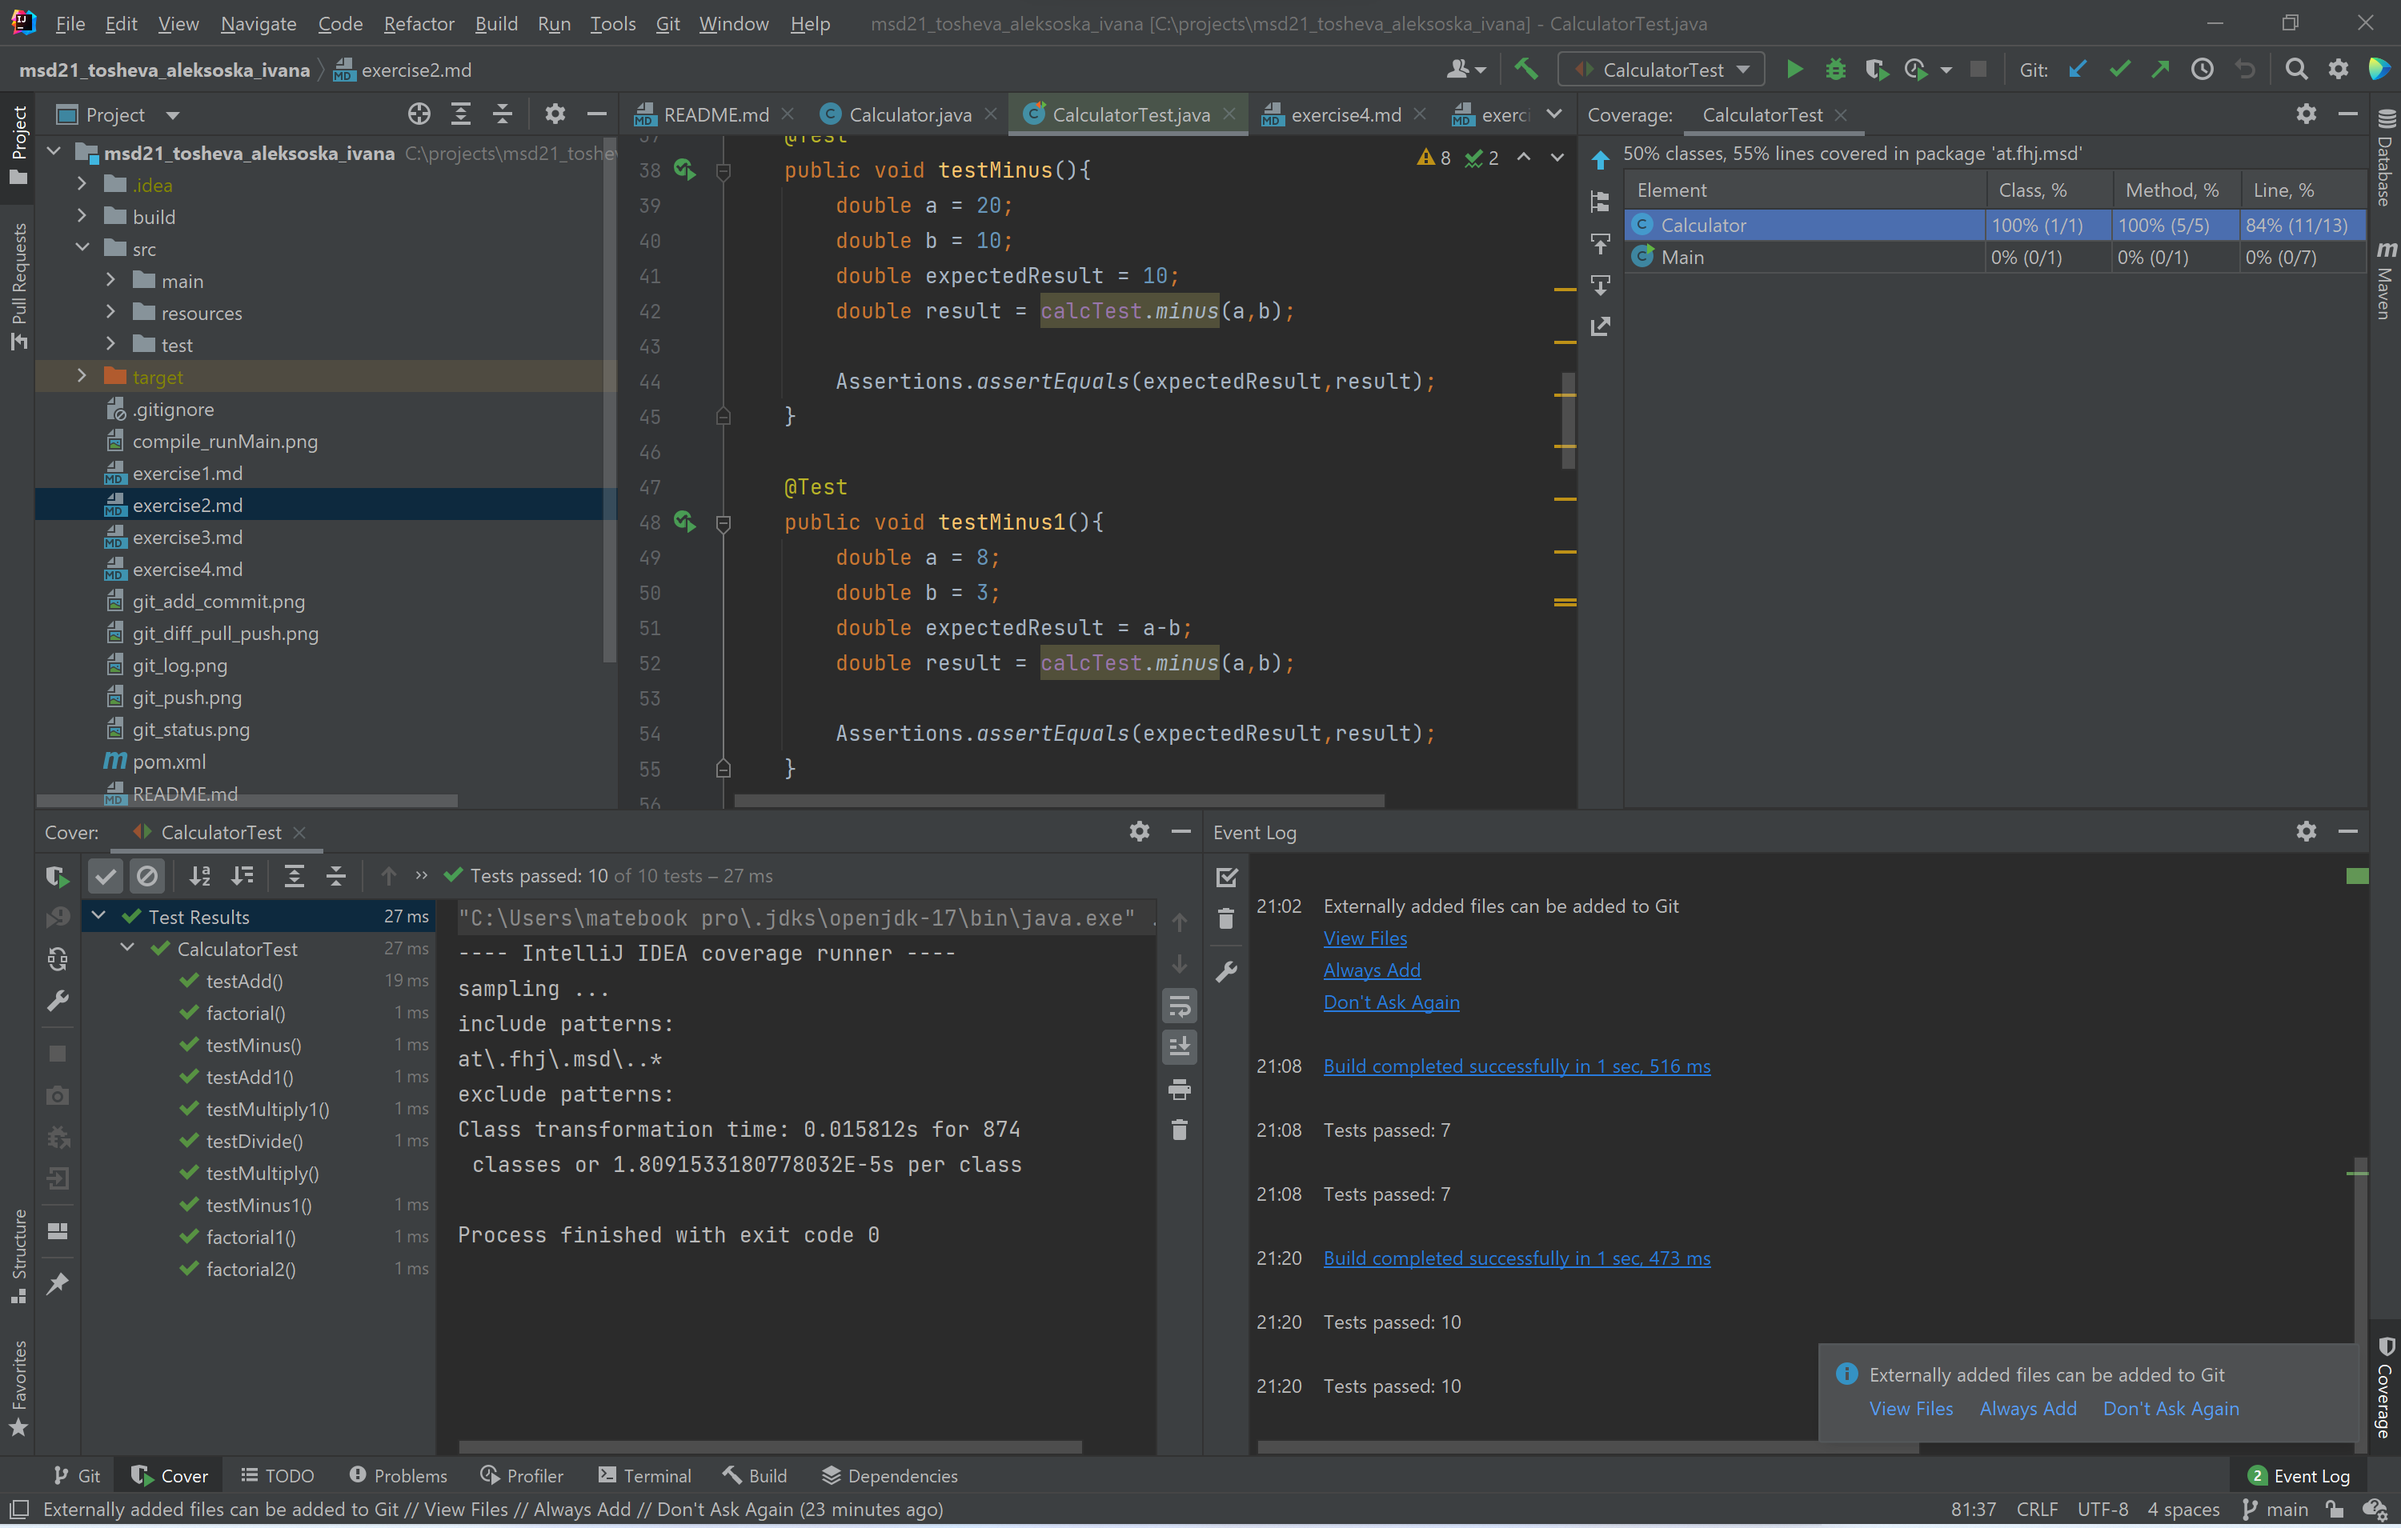
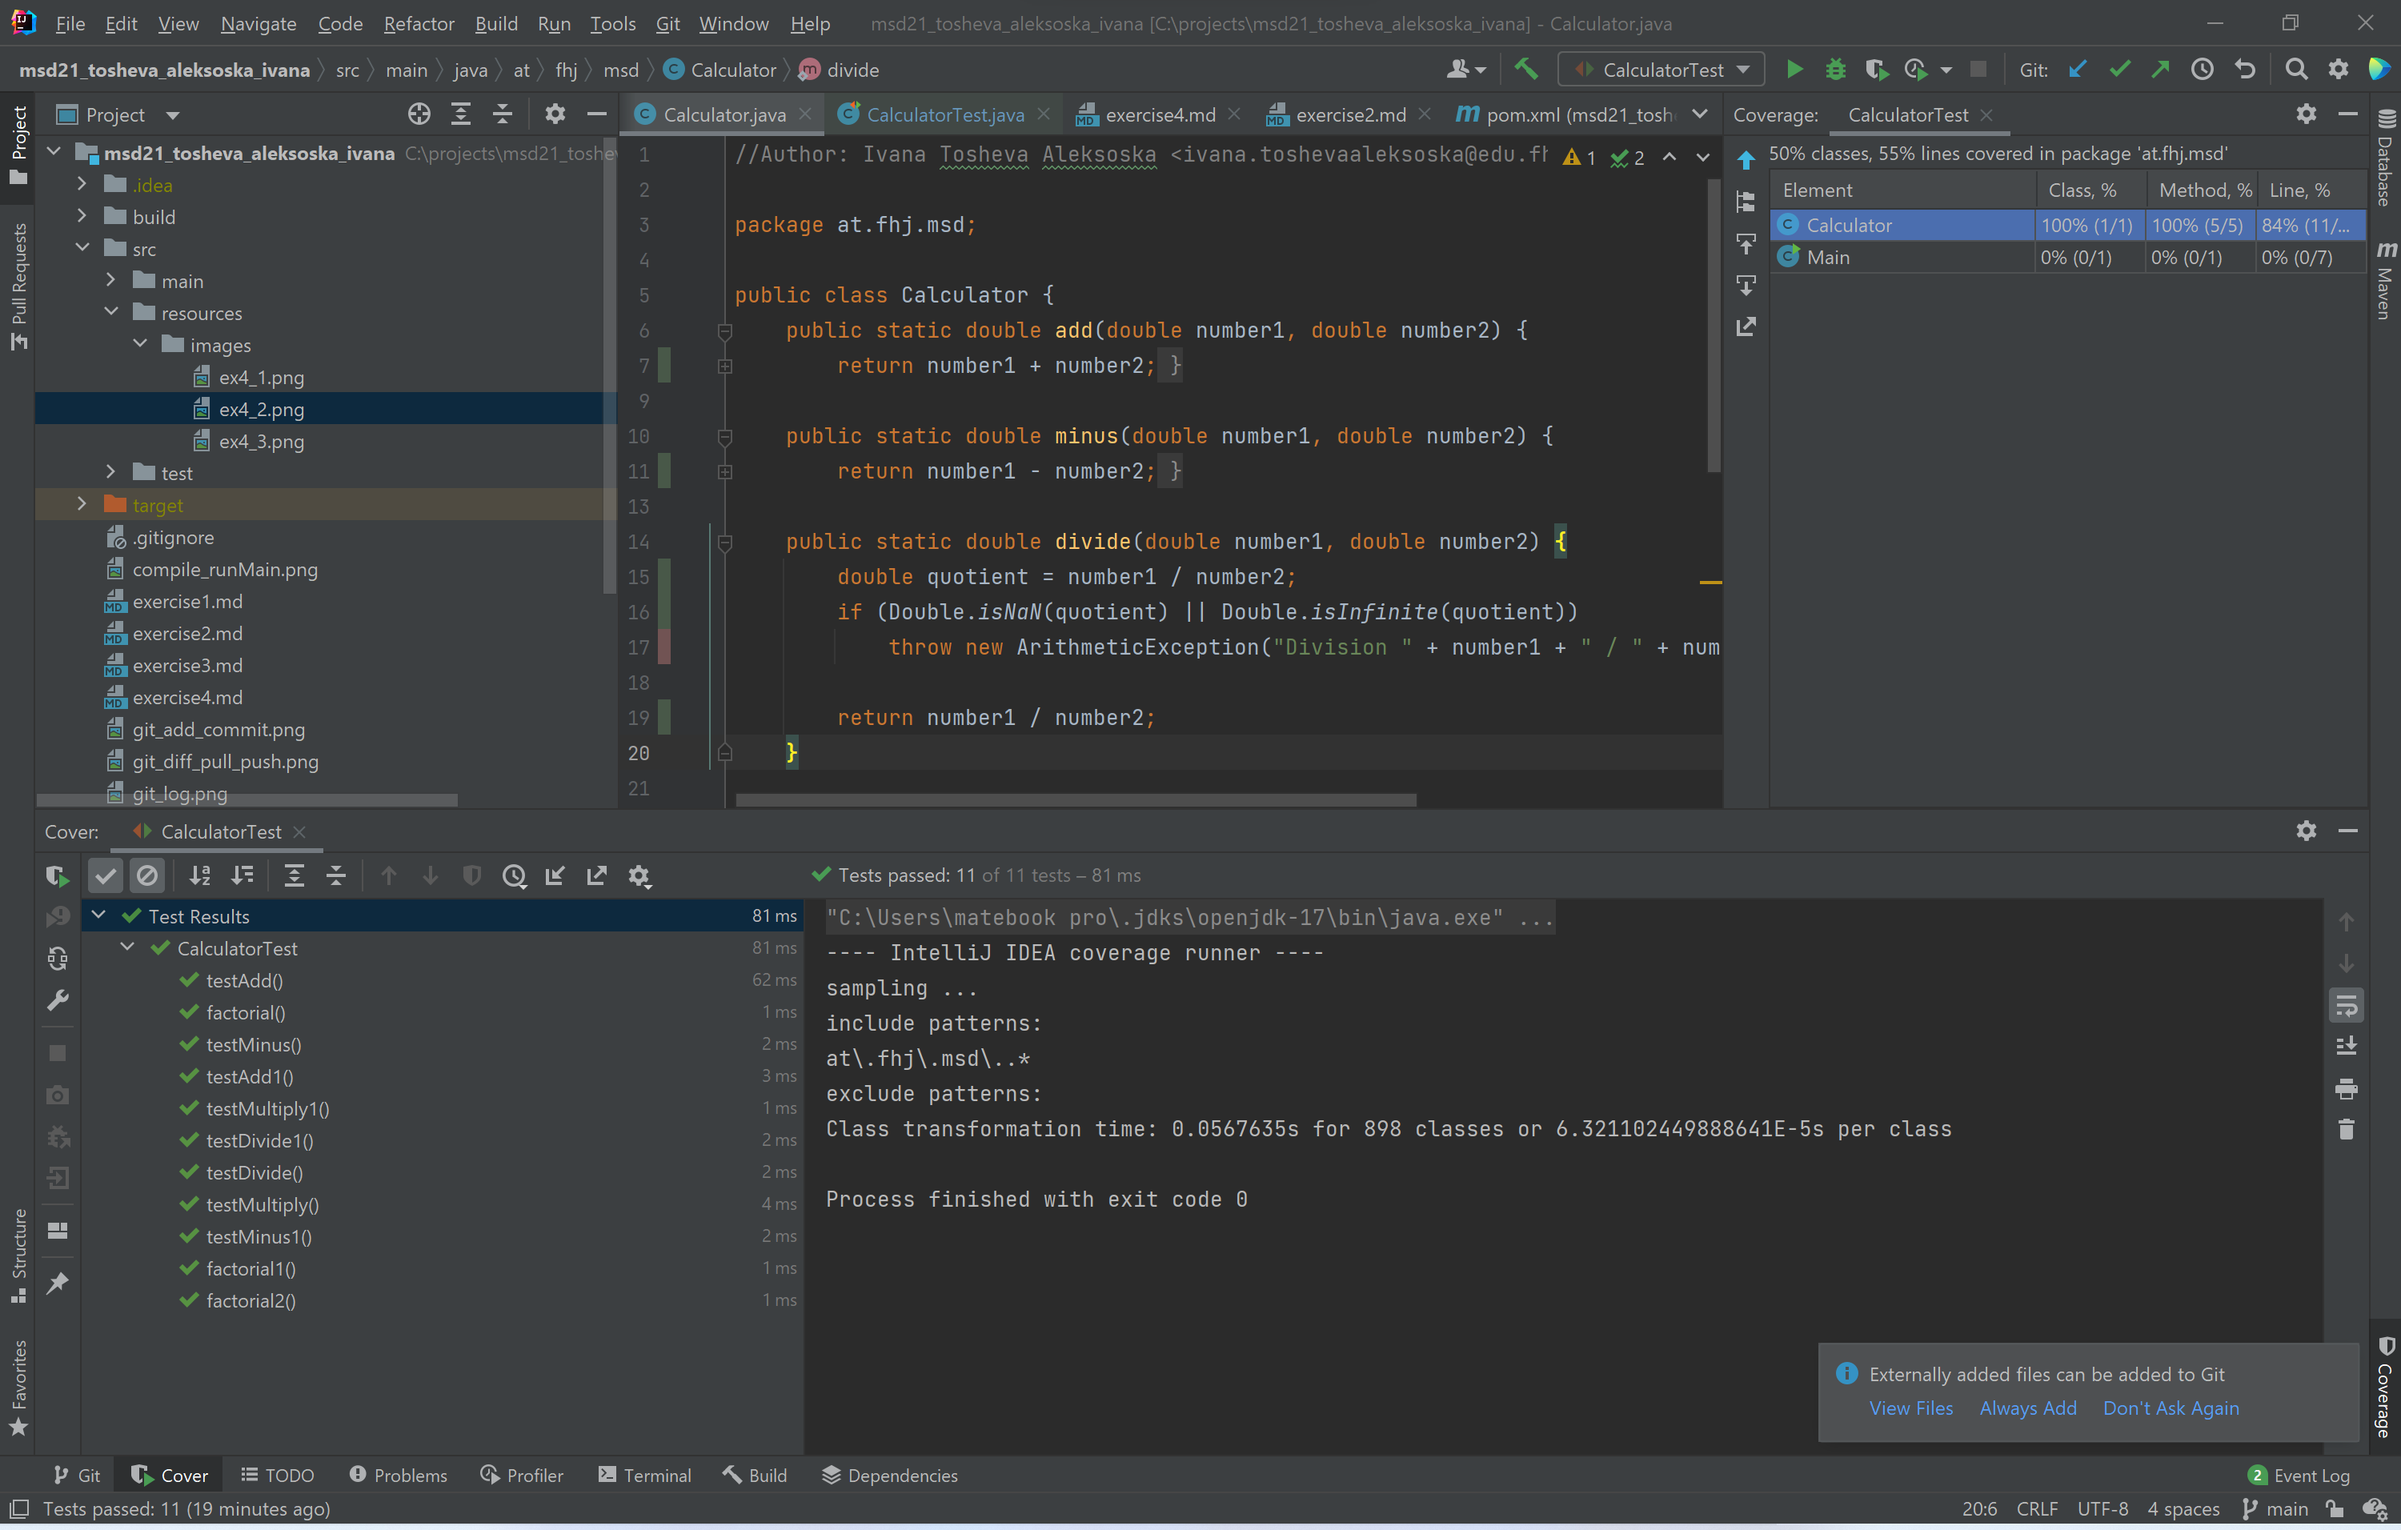
final running program with all tests implemented and photo

diff --git a/src/test/java/at/fhj/msd/CalculatorTest.java b/src/test/java/at/fhj/msd/CalculatorTest.java
@@ -76,6 +76,16 @@ public class CalculatorTest {
 
     @Test
     public void testDivide(){
+        double a = 20;
+        double b = 10;
+        double expectedResult = 2;
+        double result = calcTest.divide(a,b);
+
+        Assertions.assertEquals(expectedResult,result);
+    }
+
+    @Test
+    public void testDivide1(){
         double a = 16;
         double b = 4;
         double expectedResult = 16/4;
